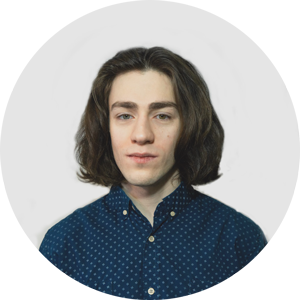
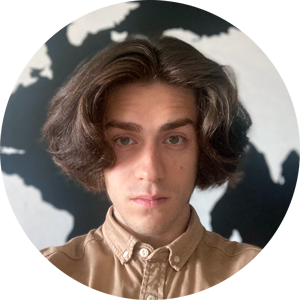
photo updated, age updated

diff --git a/index.html b/index.html
@@ -6,18 +6,18 @@
     <meta http-equiv="X-UA-Compatible" content="IE=edge">
     <meta name="HandheldFriendly" content="True">
     <meta name="viewport" content="width=device-width, initial-scale=1, maximum-scale=1" />
-    <meta name="description" content="General Information Name: Roman Filippov City: St.Petersburg Sex: Male Age: 27 Specialization: iOS Developer 📱 Write me an e-mail Work Experience 10/2018 - Present, Upwork  Software DeveloperTop Rate">
+    <meta name="description" content="General Information Name: Roman Filippov City: St.Petersburg Sex: Male Age: 28 Specialization: iOS Developer 📱 Write me an e-mail Work Experience 10/2018 - Present, Upwork  Software DeveloperTop Rate">
 <meta property="og:type" content="website">
 <meta property="og:title" content="Roman Filippov&#39;s curriculum vitae">
 <meta property="og:url" content="http://filippov.tk/cv/index.html">
 <meta property="og:site_name" content="Roman Filippov&#39;s personal website">
-<meta property="og:description" content="General Information Name: Roman Filippov City: St.Petersburg Sex: Male Age: 27 Specialization: iOS Developer 📱 Write me an e-mail Work Experience 10/2018 - Present, Upwork  Software DeveloperTop Rate">
+<meta property="og:description" content="General Information Name: Roman Filippov City: St.Petersburg Sex: Male Age: 28 Specialization: iOS Developer 📱 Write me an e-mail Work Experience 10/2018 - Present, Upwork  Software DeveloperTop Rate">
 <meta property="og:locale" content="en">
 <meta property="og:image" content="http://filippov.tk/cv/cv_photo.png">
 <meta property="og:updated_time" content="2020-02-19T22:25:54.373Z">
 <meta name="twitter:card" content="summary">
 <meta name="twitter:title" content="Roman Filippov&#39;s curriculum vitae">
-<meta name="twitter:description" content="General Information Name: Roman Filippov City: St.Petersburg Sex: Male Age: 27 Specialization: iOS Developer 📱 Write me an e-mail Work Experience 10/2018 - Present, Upwork  Software DeveloperTop Rate">
+<meta name="twitter:description" content="General Information Name: Roman Filippov City: St.Petersburg Sex: Male Age: 28 Specialization: iOS Developer 📱 Write me an e-mail Work Experience 10/2018 - Present, Upwork  Software DeveloperTop Rate">
 <meta name="twitter:image" content="http://filippov.tk/cv/cv_photo.png">
 
 
@@ -76,7 +76,7 @@
 
 
   <div class="content" itemprop="articleBody">
-    <h2 id="General-Information"><a href="#General-Information" class="headerlink" title="General Information"></a>General Information</h2><p><img align="left" style="margin-right: 25px; margin-bottom: 25px; margin-top: 25px;" width="140" height="140" src="cv/cv_photo.png"><br> Name: Roman Filippov<br> City: St.Petersburg, Russia<br> Sex: Male<br> Age: 27<br> Specialization: iOS Developer 📱<br> <a href="mailto:filiroman.tsu@gmail.com" target="_blank" rel="external">Write me an e-mail</a></p>
+    <h2 id="General-Information"><a href="#General-Information" class="headerlink" title="General Information"></a>General Information</h2><p><img align="left" style="margin-right: 25px; margin-bottom: 25px; margin-top: 25px;" width="140" height="140" src="cv/cv_photo.png"><br> Name: Roman Filippov<br> City: St.Petersburg, Russia<br> Sex: Male<br> Age: 28<br> Specialization: iOS Developer 📱<br> <a href="mailto:filiroman.tsu@gmail.com" target="_blank" rel="external">Write me an e-mail</a></p>
     <p style="display: inline">
 
         Find me on
